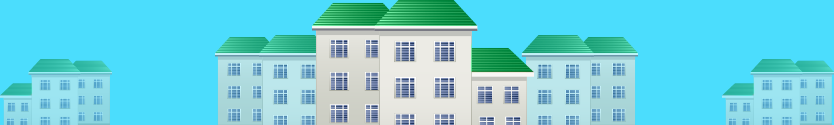
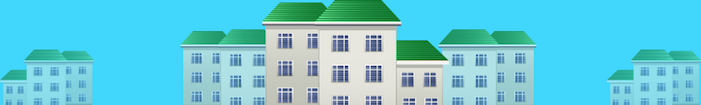
Top

diff --git a/views/stylesheets/application.sass b/views/stylesheets/application.sass
@@ -16,18 +16,18 @@ html
 
 header
   width: 100%
-  height: 250px
+  height: 210px
   background-color: #fff
   position: relative
   z-index: 1000
-  margin-bottom: 50px
+  margin-bottom: 30px
 
   &:after
     +single-box-shadow($color: #666, $voff: 2px, $inset: true)
     display: block
     content: " "
-    background-color: #4bddfd
-    height: 175px
+    background-color: #41d6fc
+    height: 135px
 
   .container
     position: relative
@@ -39,8 +39,8 @@ header
       content: " "
       width: 834px
       height: 125px
-      top: 128px
-      left: 80px
+      top: 108px
+      left: 160px
       +images-sprite(houses)
 
   .signboard
@@ -115,16 +115,18 @@ section
     color: #fff
 
 #cedae-quer-meu-dinheiro
+  margin-bottom: 0
   h1
     +images-sprite(vem-pegar-meu-coco)
     @extend .title
     width: 534px
     height: 108px
-    margin-bottom: 40px
+    margin-bottom: 20px
 
   p
-    margin-left: 100px
-    margin-right: 100px
+    font-size: 1.6rem
+    margin-left: 60px
+    margin-right: 60px
 
 #participe
   height: 200px
